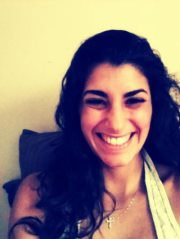
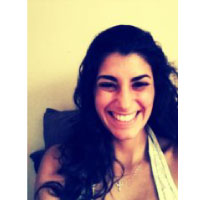
Resized more student photos

diff --git a/public/thefacebook/index.html b/public/thefacebook/index.html
@@ -19,7 +19,9 @@
         padding-top: 40px;
       }
 	  .thumbnail {
-	  height: 200px;}
+	  height: 200px;
+	  width: 200px;
+	  }
     </style>
 
 
@@ -213,7 +215,7 @@
         </li>
 		 <li>
 			<a title="Rhan Kim" class="lightbox" href="images/Rhan Kim.jpg">
-			 <img class="thumbnail" src="images/AnnalieseGodderz.jpg" alt="">
+			 <img class="thumbnail" src="images/RhanKim.jpg" alt="">
 			 <h4 class="name">Rhan Kim</h4>
 			</a>
         </li>
